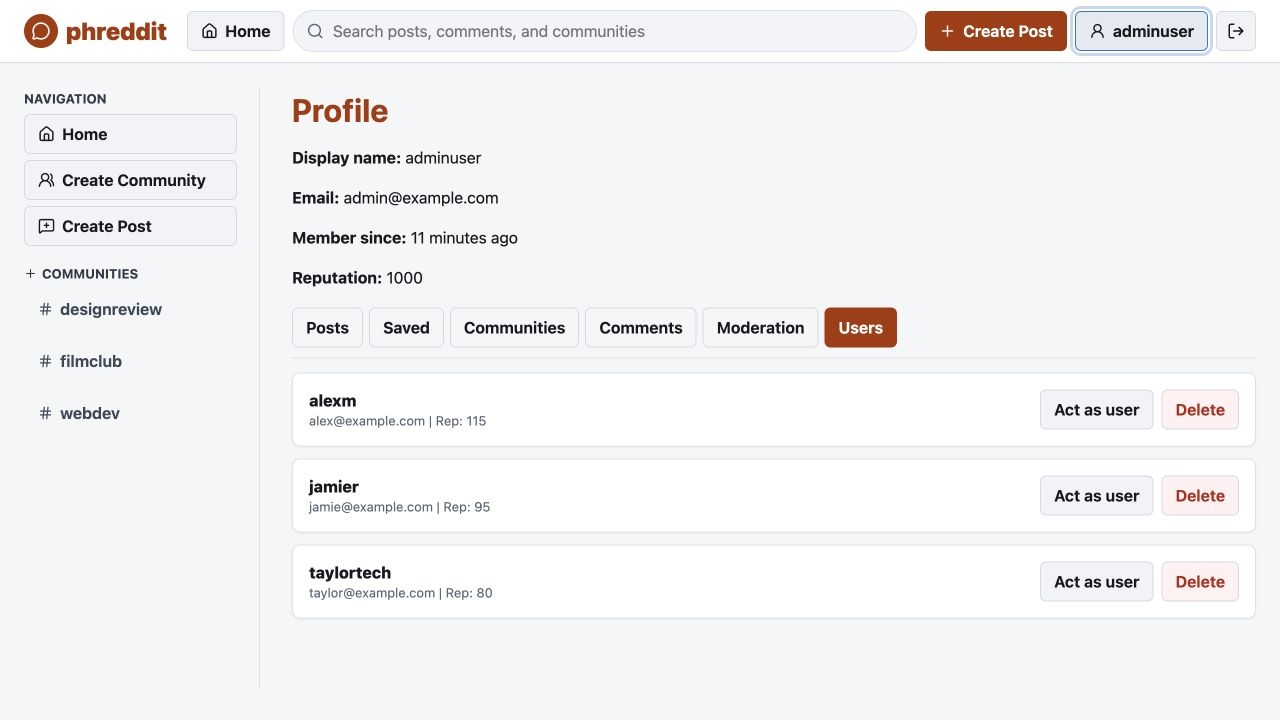
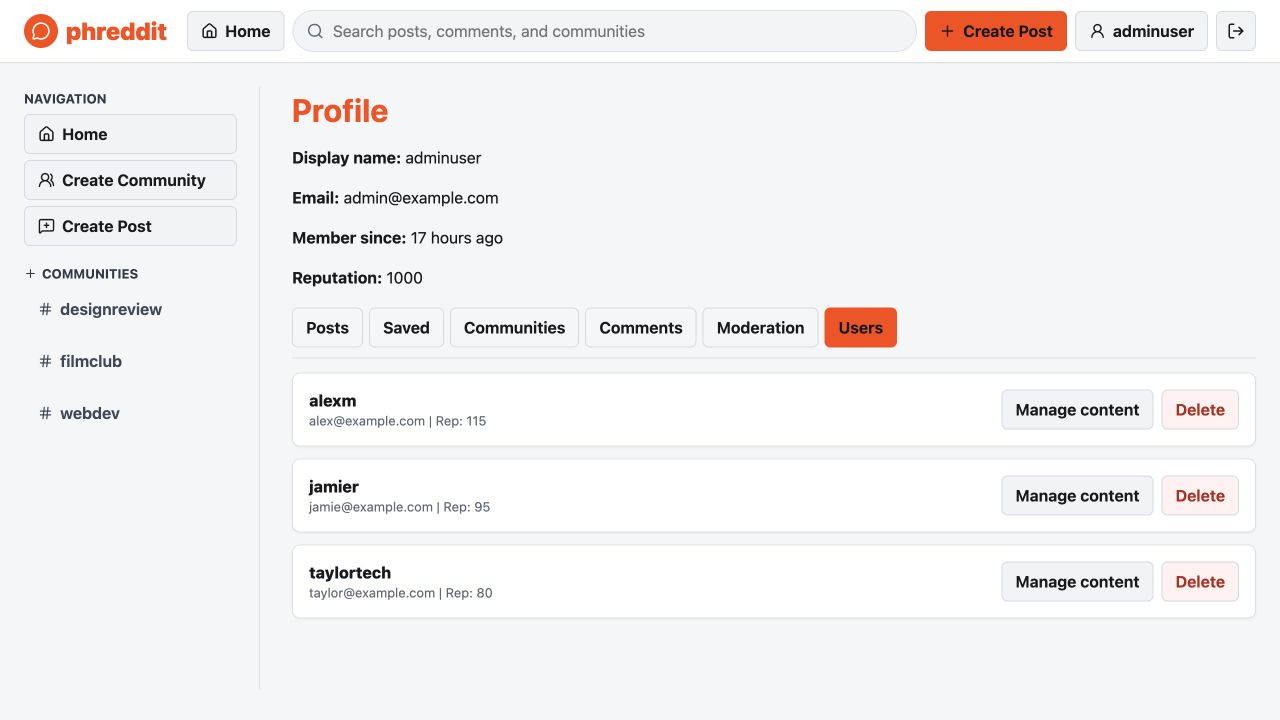
Adopt the official Reddit Orange palette

diff --git a/client/src/style.css b/client/src/style.css
@@ -1,7 +1,7 @@
 :root {
-  --accent: #a93600;
-  --accent-dark: #7d2800;
-  --accent-soft: #fff0e8;
+  --accent: #ff4500;
+  --accent-dark: #c93600;
+  --accent-soft: #fff1eb;
   --ink: #17191d;
   --muted: #5d6877;
   --line: #dce1e8;
@@ -95,7 +95,7 @@ button.primary,
 button.active {
   border-color: var(--accent);
   background: var(--accent);
-  color: white;
+  color: var(--ink);
 }
 
 button.primary:hover,
@@ -386,7 +386,7 @@ form label,
 .bootstrap-status button {
   margin-top: 6px;
   background: var(--accent);
-  color: white;
+  color: var(--ink);
 }
 
 .bootstrap-status button:hover {
@@ -711,7 +711,7 @@ form label,
 
 .tab.active {
   background: var(--accent);
-  color: white;
+  color: var(--ink);
 }
 
 .welcome-screen {

diff --git a/client/index.html b/client/index.html
@@ -4,7 +4,7 @@
     <meta charset="UTF-8" />
     <meta name="viewport" content="width=device-width, initial-scale=1.0" />
     <meta name="description" content="Phreddit is a realtime community forum for posts, threaded discussions, voting, and moderation." />
-    <meta name="theme-color" content="#a93600" />
+    <meta name="theme-color" content="#ff4500" />
     <meta name="color-scheme" content="light" />
     <meta property="og:title" content="Phreddit" />
     <meta property="og:description" content="A production-shaped MERN community forum with realtime discussions and tested moderation workflows." />
